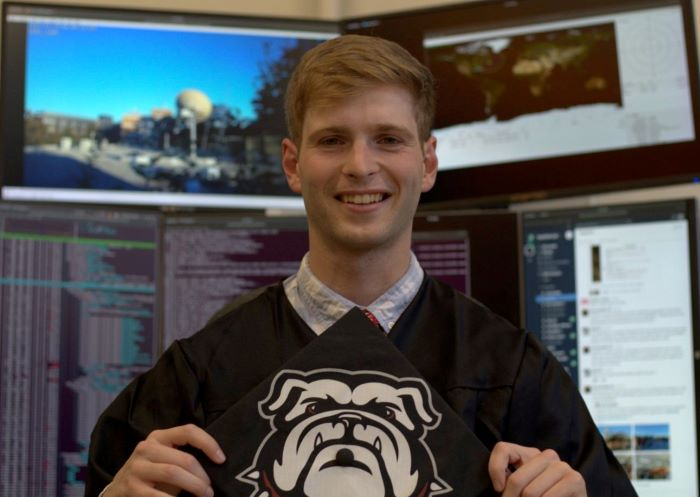
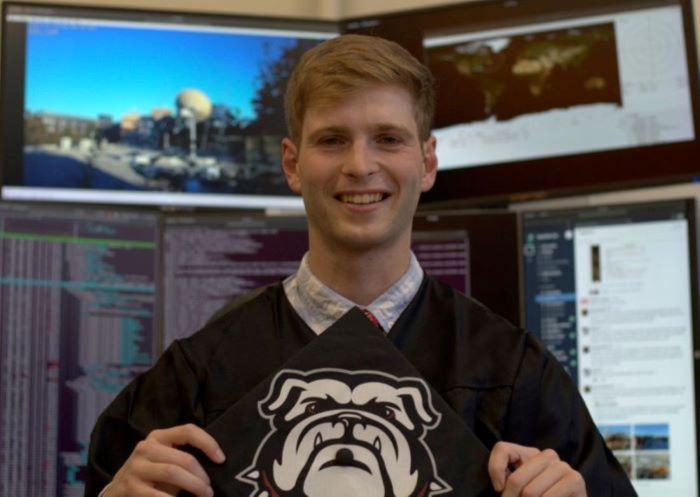
vc photo update

diff --git a/index.html b/index.html
@@ -301,7 +301,7 @@
                
                 <div class="row no-gutters" id="projectRow">
                     <div class="row no-gutters" id="projectRowTop">
-                        <img class="project" id="projectGIF" src="resources/img/code.jpg" width="340" height="260">
+                        <img class="project" id="projectGIF" src="resources/img/grad-photo2.jpg" width="700" height="497">
                     </div>
 
                       <div class="row no-gutters" id="projectRowMiddle">
